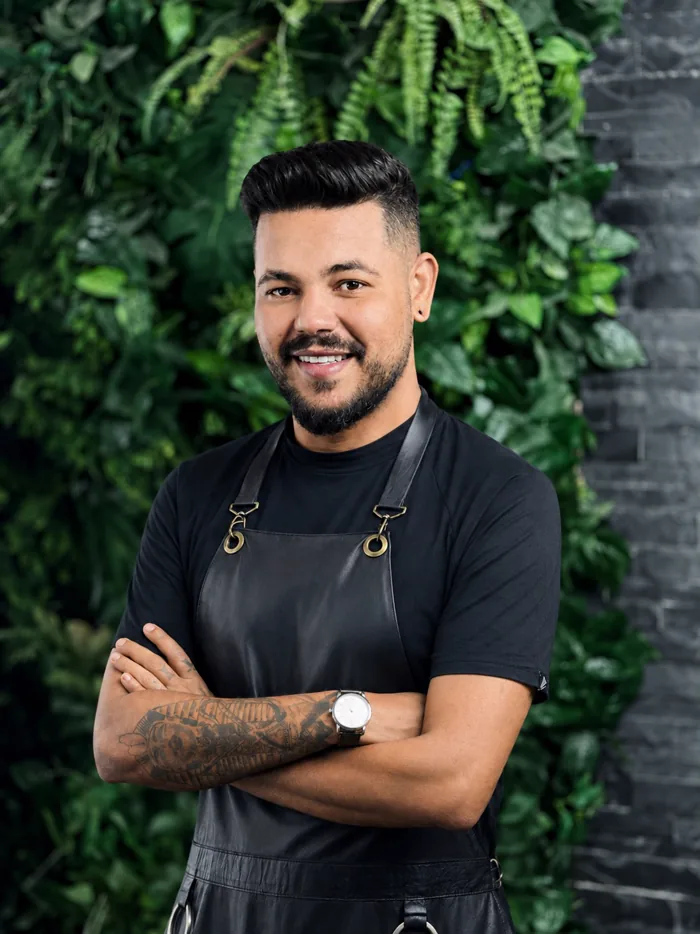
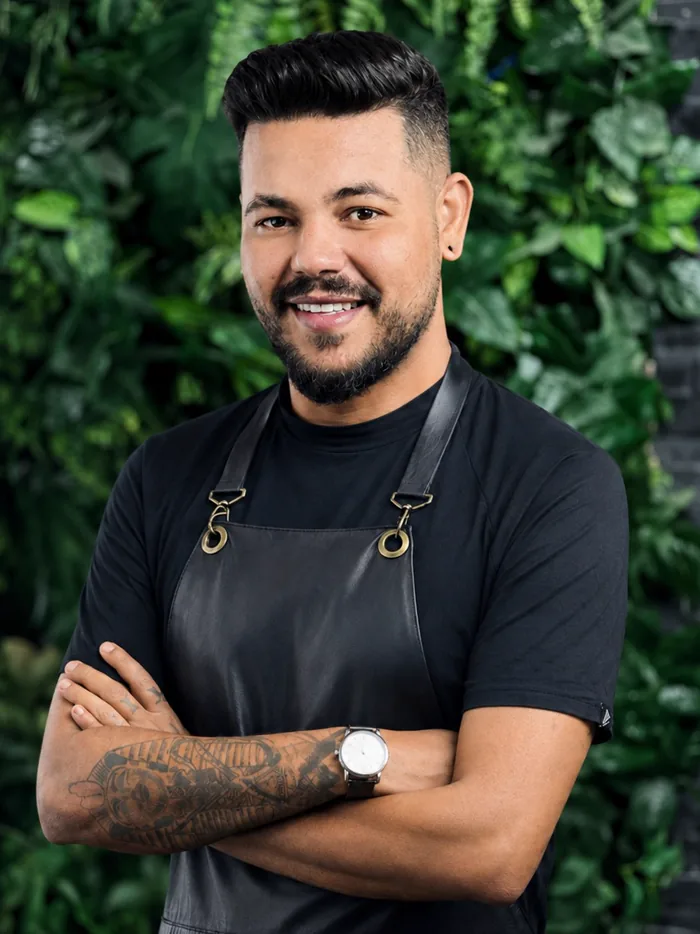
chore: reenquadrar foto do Túlio e remover Kelvin do depoimento
Claude-Session: https://claude.ai/code/session_013Epp85uCVcwAyXiQ9TdrxE

diff --git a/src/components/home/TestimonialsSection.tsx b/src/components/home/TestimonialsSection.tsx
@@ -4,7 +4,7 @@ import { Star, ChevronLeft, ChevronRight } from "lucide-react";
 const testimonials = [
   { name: "Marcos Silva", role: "Cliente desde 2020", text: "Vou à Paradise toda semana e nunca me decepcionei. O ambiente é impecável, os barbeiros são atenciosos e o resultado é sempre acima do esperado. Recomendo de olhos fechados.", rating: 5, source: "Google Reviews" },
   { name: "João Pedro", role: "Membro do Clube", text: "Depois que assinei o Clube, não consigo imaginar ir a outra barbearia. O custo-benefício é absurdo e a qualidade do corte se mantém consistente toda vez.", rating: 5, source: "Google Reviews" },
-  { name: "Dr. Luís Reis", role: "Cliente", text: "Excelente atendimento na barbearia! Cada detalhe faz a diferença: do cuidado com os clientes ao atendimento personalizado, tudo impecável. Quero parabenizar toda a equipe incrível: Túlio, Tariki, Lucas e Kelvin vocês transformam cada visita em uma experiência VIP, do corte ao momento de barbearia. Vale muito a pena conhecer e se sentir cuidado com tanto profissionalismo e dedicação!", rating: 5, source: "Google Reviews" },
+  { name: "Dr. Luís Reis", role: "Cliente", text: "Excelente atendimento na barbearia! Cada detalhe faz a diferença: do cuidado com os clientes ao atendimento personalizado, tudo impecável. Quero parabenizar toda a equipe incrível: Túlio, Tariki e Lucas vocês transformam cada visita em uma experiência VIP, do corte ao momento de barbearia. Vale muito a pena conhecer e se sentir cuidado com tanto profissionalismo e dedicação!", rating: 5, source: "Google Reviews" },
 ];
 
 const AUTOPLAY_INTERVAL = 6000;
